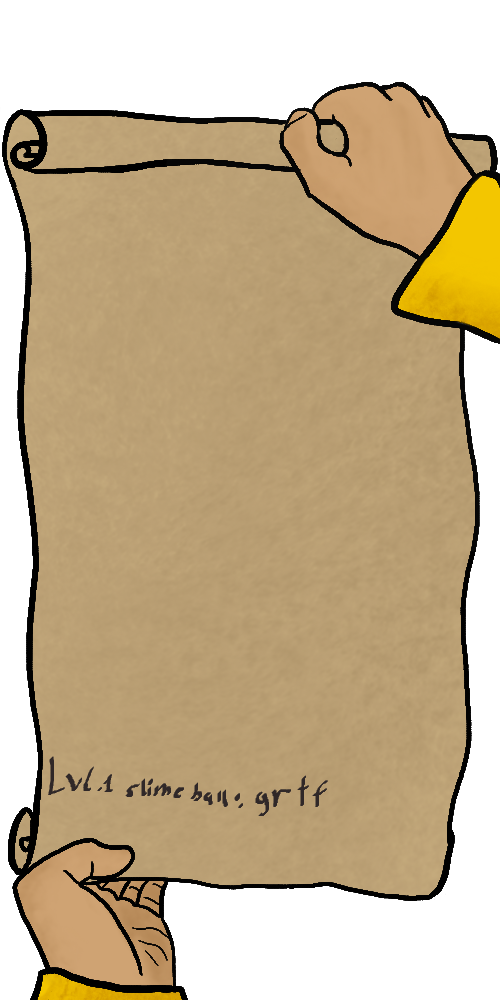
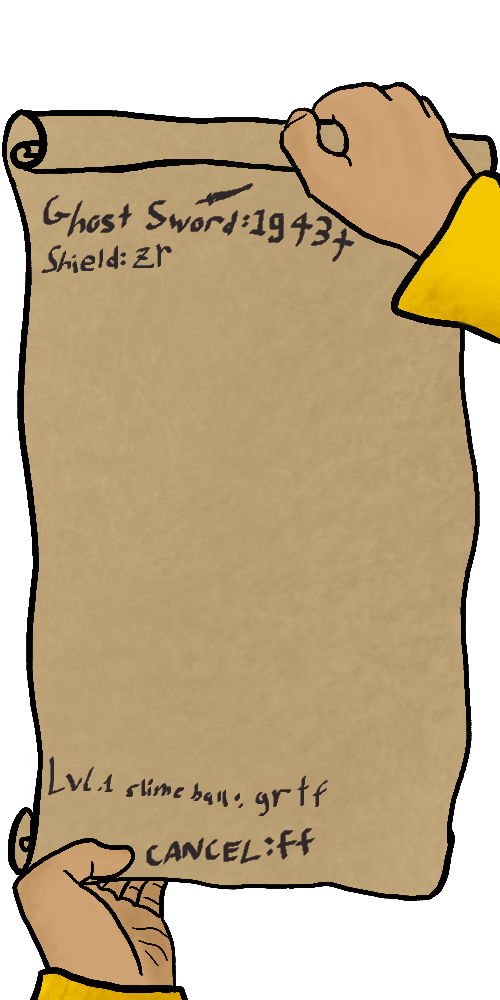
7/26/25 - Daily Update 3
Started working on the final boss. I drew two images for it and it's title, and worked it into my GUI and basic game loop. It now appears on game start rather than the Hideous Beast. I added an awakening feature, where it appears dormant at first, but awakens when the player deals damage to it. this also causes it's boss bar to appear on screen. I also made it rise from the ground, and follow the player.

I also reworked the hitbox collision effect system to allow collisions with more than just The Hideous Creature, as before that was the only enemy that the hitbox collision effect system could handle.

Tomorrow I intend to make the boss be able to actually shoot projectiles at the player, as right now the only way it can damage the player is if the player runs into it, which isn't a very enjoyable boss fight :/

I also updated the angled rectangle and circle collision to also check the distances between any of the verticies of the angled rectangle and the center of the circle

I also changed the combo for ghost Sword, and updated the spell scroll sheet to include both the ghost sword and the cancel combo

Changed region(s): [[0.09, 0.186, 0.72, 0.279], [0.27, 0.806, 0.63, 0.868]]

diff --git a/MildyInterestingWizardGamePrototypeMk7.py b/MildyInterestingWizardGamePrototypeMk7.py
@@ -7,7 +7,8 @@
 # START WORKING ON FINAL BOSS
 # ADD HEALTH REGAIN AND MANA REGAIN ITEMS
 # VIDEO IS VERY IMPORTANT!!! WORK ON VIDEO!!!! WRITE DOWN KEY FEATURES OF CODE I WANT TO POINT OUT IN VIDEO
-# CONTINUE WORKING ON COLLISION SYSTEM (still need angled rectangles)
+# make map bounds?? (maybe)
+# ADD PLAYER HURT - show that player has been hurt somehow, play sound probably
 # name wizard - Wizard Bossfight, firstname Wizard, lastname Bossfight
 
 # QUESTIONS FOR PROF TAYLOR:
@@ -299,6 +300,73 @@ class InsidiousCreature(Enemy):
         super().__init__(name,frames,imageWidth,imageHeight,imageScale,alignment,drawBuffer,displayAngle,initialX,initialY,maxHealth,playerDamageOnHit)
         self.behaviors = ['stationary','chase']
         self.behavioralMode = 'stationary'
+        self.radius = 0
+        self.phase = 0
+        self.subphase = 0
+        self.subphaseCounter = 0
+        self.playerHoverDistance = 500
+        self.intendedYPosition = 0
+    
+    def move(self,app):
+        if(self.subphase == 'rise'):
+            if(self.yPosition > (app.ti['ground'].initialTileYPosition - 150)):
+                app.icPhysics['y'].currentThrust += 5
+            elif(app.icPhysics['y'].currentThrust > 0):
+                app.icPhysics['y'].currentThrust = app.icPhysics['y'].currentThrust * 0.9
+                if(app.icPhysics['y'].currentThrust < 1):
+                    app.icPhysics['y'].currentThrust = 0
+            else:
+                self.subphase = 'chase'
+        elif(self.subphase == 'chase'):
+            dx = (self.xPosition + self.xOffset) - app.playerObject.xPosition
+            if(dx < -self.playerHoverDistance):
+                app.icPhysics['x'].currentThrust = -500
+            elif(dx > self.playerHoverDistance):
+                app.icPhysics['x'].currentThrust = 500
+            else:
+                app.icPhysics['x'].currentThrust = 0
+
+            self.intendedYPosition = app.playerObject.yPosition - self.yOffset - 150
+            dy = self.yPosition - self.intendedYPosition
+            hoverMargin = 100
+            if(dy > hoverMargin):
+                app.icPhysics['y'].currentThrust = dy 
+            elif(dy < -hoverMargin):
+                app.icPhysics['y'].currentThrust = dy * 2
+            else:
+                app.icPhysics['y'].currentThrust = 0
+
+        runPhysicsCalculations(app.icPhysics['x'])   
+        runPhysicsCalculations(app.icPhysics['y'])
+        # ptc("app.icPhysics['y'].currentVelocity",app.icPhysics['y'].currentVelocity)
+        self.xPosition -= app.icPhysics['x'].currentVelocity
+        self.yPosition -= app.icPhysics['y'].currentVelocity
+
+    def fireTooth(self,app):
+        # cobble this together into the boss being able to fire projectiles pleaseee
+        # if(app.spells[spellName].projectileType == 'linear'):
+        #     app.projectile[spellName] = Linear(spellName,frames,width,height,scale,drawBuffer,0,initialX,initialY,targetX,targetY,True)
+        # hitboxRotationAngle = app.shieldData[app.mouseScreenSector][2]
+        # width = int(app.spells[spellName].displayWidth * 0.2)
+        # height = int(app.spells[spellName].displayHeight * 0.9)
+        # [(x_1,y_1),(x_2,y_2),(x_3,y_3),(x_4,y_4)] = applyRectangleRotation(app.spells[spellName].xPosition, app.spells[spellName].yPosition, width, height, hitboxRotationAngle)
+        # app.hitbox[spellName] = HitboxAngledRect(x_1,y_1,x_2,y_2,x_3,y_3,x_4,y_4)
+        pass
+
+    def updateImage(self,app):
+        if(self.phase == 0):
+            self.imagePath = 'images/insidiousCreature/eyesClosed.png'
+        elif(self.phase == 1):
+            self.imagePath = 'images/insidiousCreature/eyesOpen.png'
+
+    def updateState(self,app):
+        if((self.health != self.maxHealth) and (app.currentBoss == None)):
+            app.currentBoss = 'insidiousCreature'
+            app.screenShakeMagnitude += 3
+            self.phase = 1
+            self.subphase = 'rise'
+            self.health = self.maxHealth
+            
 
 class TheHideousBeast(Enemy):
     def __init__(self,name,frames,imageWidth,imageHeight,imageScale,alignment,drawBuffer,displayAngle,initialX,initialY,maxHealth,playerDamageOnHit):
@@ -714,7 +782,7 @@ def updatePositioning(app):
     for enemyName in app.enemies:
         enemy = app.enemies[enemyName]
         enemy.xOffset -= (app.player['x'].currentVelocity)
-        enemy.yOffset = app.ti['ground'].yOffset
+        enemy.yOffset = int(app.ti['ground'].yOffset)
 
 def runPhysicsCalculations(subject):
     subject.currentAcceleration = (((subject.currentThrust)+(subject.gravity)+((subject.frictionConstant)*(subject.previousVelocity)))/((subject.mass)-(subject.frictionConstant)))
@@ -1775,16 +1843,71 @@ def initiateProjectile(app,projectileName):
         reportError('getting projectie data','UNRECOGNIZED PROJECTILE','getProjectileData','recieved unexpected projectile name',projectileName,None)
 
 # ENEMIES
+def initiateTheHideousBeast(app,Physics):
+    initialX = 100
+    initialY = app.ti['ground'].initialTileYPosition-80
+    app.enemies['theHideousBeast'] = TheHideousBeast('theHideousBeast',0,500,500,0.7,'center',100,0,initialX,initialY,500,10)
+
+    # initiating hitbox for the hideous beast
+    THBhitboxXAdjustmentConstant = app.enemies['theHideousBeast'].displayWidth//7
+    THBhitboxYAdjustmentConstant = app.enemies['theHideousBeast'].displayHeight//3
+    initiateHitbox(app,'theHideousBeast',app.enemies['theHideousBeast'],'enemy',THBhitboxXAdjustmentConstant,THBhitboxYAdjustmentConstant,'hitboxRect')
+
+    # creating physics dictionary for the hideous beast
+    app.THBPhysics = dict()
+
+    # intiating the hideous beast's physics axes
+    app.THBPhysics['x'] = Physics()
+    app.THBPhysics['y'] = Physics()
+
+    # tuning the hideous beast's physics parameters
+    app.THBPhysics['x'].mass = 150
+    app.THBPhysics['y'].mass = 150
+    app.THBPhysics['x'].setThrust = 700
+    app.THBPhysics['x'].setFrictionConstant = -20
+    app.THBPhysics['x'].frictionConstant = -20
+    app.THBPhysics['y'].setThrust = 700
+    app.THBPhysics['y'].setFrictionConstant = -20
+    app.THBPhysics['y'].frictionConstant = -20
+    app.setGravity = -150
+
+def initiateInsidiousCreature(app,Physics):
+    initialX = app.screenWidth * 1.5
+    initialY = app.ti['ground'].initialTileYPosition-80
+    app.enemies['insidiousCreature'] = InsidiousCreature('insidiousCreature',0,500,500,0.6,'center',100,0,initialX,initialY,500,5)
+
+    # establishing the hitbox radius for the Insidious Creature
+    app.enemies['insidiousCreature'].radius = int(app.enemies['insidiousCreature'].displayWidth * 0.4)
+
+    # initiating hitbox for the insidious creature)
+    initiateHitbox(app,'insidiousCreature',app.enemies['insidiousCreature'],'enemy',0,0,'hitboxCircle')
+
+    # insidious creature will be shortened to ic for clarity
+
+    # creating physics dictionary for the insidious creature
+    app.icPhysics = dict()
+
+    # intiating the insidious creature's physics axes
+    app.icPhysics['x'] = Physics()
+    app.icPhysics['y'] = Physics()
+
+    # tuning the insidious creature's physics parameters
+    app.icPhysics['x'].mass = 30
+    app.icPhysics['y'].mass = 30
+    app.icPhysics['x'].setThrust = 750
+    app.icPhysics['x'].setFrictionConstant = -20
+    app.icPhysics['x'].frictionConstant = -20
+    app.icPhysics['y'].setThrust = 750
+    app.icPhysics['y'].setFrictionConstant = -15
+    app.icPhysics['y'].frictionConstant = -15
+
 def updateEnemies(app):
     enemiesToDelete = set()
     for enemyName in app.enemies:
-        if(enemyName == 'theHideousBeast'):
-            app.currentBoss = 'theHideousBeast'
         enemy = app.enemies[enemyName]
         enemy.move(app)
         enemy.updateImage(app)
         enemy.updateState(app)
-
         if(enemy.deleteMe):
             if(enemyName == app.currentBoss):
                 app.currentBoss = None
@@ -2051,20 +2174,24 @@ def triggerCollisionEffect(app,hitbox_1,hitbox_2):
             # adverse effects
             return
         elif(otherHitbox.belongsTo == 'enemy'):
-            if(('theHideousBeast' in app.enemies) and (otherHitbox.associatedObject == app.enemies['theHideousBeast'])):
+            if(isinstance(otherHitbox.associatedObject, TheHideousBeast) or isinstance(otherHitbox.associatedObject, InsidiousCreature)):
                 if(app.playerImmunityFrames == 0):
-                    app.playerHealth -= app.enemies['theHideousBeast'].playerDamageOnHit
+                    app.playerHealth -= otherHitbox.associatedObject.playerDamageOnHit
                     app.playerImmunityFrames = 10
-    elif(('theHideousBeast' in app.enemies) and ((hitbox_1.associatedObject == app.enemies['theHideousBeast']) or (hitbox_2.associatedObject == app.enemies['theHideousBeast']))):
-        if(hitbox_1.associatedObject == app.enemies['theHideousBeast']):
-            THBhitbox = hitbox_1    
+
+    elif(isinstance(hitbox_1.associatedObject, Enemy) or isinstance(hitbox_2.associatedObject, Enemy)):
+        if(isinstance(hitbox_1.associatedObject, Enemy) and not isinstance(hitbox_2.associatedObject, Enemy)):
+            enemyHitbox = hitbox_1    
             otherHitbox = hitbox_2
-        else:
-            THBhitbox = hitbox_2
+        elif(isinstance(hitbox_2.associatedObject, Enemy) and not isinstance(hitbox_1.associatedObject, Enemy)):
+            enemyHitbox = hitbox_2
             otherHitbox = hitbox_1
-        if(('levelOneSlimeBall' in app.projectile ) and (otherHitbox.associatedObject == app.projectile['levelOneSlimeBall'])):
-            app.enemies['theHideousBeast'].health = max(app.enemies['theHideousBeast'].health - app.projectile['levelOneSlimeBall'].damage, 0)
-            app.projectile['levelOneSlimeBall'].deleteMe = True
+        else:
+            return
+        if(isinstance(otherHitbox.associatedObject, Projectile)):
+            print('contact!:',otherHitbox.associatedObject.name)
+            enemyHitbox.associatedObject.health = max(enemyHitbox.associatedObject.health - otherHitbox.associatedObject.damage, 0)
+            otherHitbox.associatedObject.deleteMe = True
 
 def checkCollisionType(hitbox_1, hitbox_2):
     result = set()
@@ -2091,8 +2218,13 @@ def runCollisionCalculations(app, hitboxName_1, hitboxName_2):
     # check what kind of collision we have to run the calculations for
     collisionType = checkCollisionType(hitbox_1, hitbox_2)
     if(collisionType == {'hitboxCircle'}):
-        if(getDistance(hitbox_1.xPosition, hitbox_1.yPosition, hitbox_2.xPosition, hitbox_2.yPosition) <= (hitbox_1.radius + hitbox_2.radius)):
+        x_1 = hitbox_1.xPosition + hitbox_1.xOffset
+        y_1 = hitbox_1.yPosition + hitbox_1.yOffset
+        x_2 = hitbox_2.xPosition + hitbox_2.xOffset
+        y_2 = hitbox_2.yPosition + hitbox_2.yOffset
+        if(getDistance(x_1,y_1,x_2,y_2) <= (hitbox_1.radius + hitbox_2.radius)):
             triggerCollisionEffect(app, hitbox_1, hitbox_2)
+    
     elif(collisionType == {'hitboxRect'}):
         left_1 = hitbox_1.left + hitbox_1.xOffset
         right_1 = hitbox_1.right + hitbox_1.xOffset
@@ -2119,6 +2251,7 @@ def runCollisionCalculations(app, hitboxName_1, hitboxName_2):
             triggerCollisionEffect(app, hitbox_1, hitbox_2)
             # print('both rectangles')
             pass
+    
     elif(collisionType == {'hitboxAngledRect'}):
         hVertList_1 = []
         for i in hitbox_1.getVertList():
@@ -2127,8 +2260,9 @@ def runCollisionCalculations(app, hitboxName_1, hitboxName_2):
         for i in hitbox_2.getVertList():
             hVertList_2.append([(i[0] + hitbox_2.xOffset),(i[1] + hitbox_2.yOffset)])
         if(checkConvexPolygonIntersection(hVertList_1,hVertList_2) or checkConvexPolygonIntersection(hVertList_2,hVertList_1)):
-            print('contact')
+            triggerCollisionEffect(app, hitbox_1, hitbox_2)
             pass        
+    
     elif(collisionType == {'hitboxCircle', 'hitboxRect'}):
         if(isinstance(hitbox_1,HitboxCircle)):
             hitboxCircle = hitbox_1
@@ -2145,6 +2279,7 @@ def runCollisionCalculations(app, hitboxName_1, hitboxName_2):
         if((left <= x <= right) and (top <= y <= bottom)):
             triggerCollisionEffect(app, hitbox_1, hitbox_2)
             # print('one circle, one rectangle')
+    
     elif(collisionType == {'hitboxCircle', 'hitboxAngledRect'}):
         if(isinstance(hitbox_1,HitboxCircle)):
             hitboxCircle = hitbox_1
@@ -2156,8 +2291,13 @@ def runCollisionCalculations(app, hitboxName_1, hitboxName_2):
         for i in hitboxAngledRect.getVertList():
             hARVertList.append([(i[0] + hitboxAngledRect.xOffset),(i[1] + hitboxAngledRect.yOffset)])
         circleVert = [[(hitboxCircle.xPosition + hitboxCircle.xOffset),(hitboxCircle.yPosition + hitboxCircle.yOffset)]] 
-        if(checkConvexPolygonIntersection(circleVert,hARVertList)):
-            print('contact')
+        distanceCheck = False
+        for [hARx,hARy] in hARVertList:
+            if(getDistance(hARx,hARy,circleVert[0][0],circleVert[0][1]) <= hitboxCircle.associatedObject.radius):
+                distanceCheck = True
+        if(checkConvexPolygonIntersection(circleVert,hARVertList) or distanceCheck):
+            triggerCollisionEffect(app, hitbox_1, hitbox_2)
+    
     elif(collisionType == {'hitboxRect', 'hitboxAngledRect'}):
         if(isinstance(hitbox_1,HitboxRect)):
             hitboxRect = hitbox_1
@@ -2178,8 +2318,8 @@ def runCollisionCalculations(app, hitboxName_1, hitboxName_2):
         # print(hRVertList)
    
         if(checkConvexPolygonIntersection(hARVertList,hRVertList) or checkConvexPolygonIntersection(hRVertList,hARVertList)):
-            print('contact')
-            pass
+            triggerCollisionEffect(app, hitbox_1, hitbox_2)
+    
     else:
         reportError('attempting to run collision calculations','UNRECOGNIZED COLLISION TYPE','runCollisionCalculations','recieved collision type',collisionType,None)
 
@@ -2907,7 +3047,7 @@ def gameSetup(app):
     app.spells['levelOneSlimeBall'] = Spell('aggressive','grtf','levelOneSlimeBall','mapProjectile',1,250,250,0.1,10,10)
     app.spells['levelOneSlimeBall'].projectileType = 'groundbounce'
     app.spells['shield'] = Spell('defensive','zr','shield','shield',1,250,250,0.25,5,0)
-    app.spells['ghostSword'] = Spell('aggressive','1','ghostSword','mapProjectile',1,250,250,0.5,0,10) # final combo will be 1g43t
+    app.spells['ghostSword'] = Spell('aggressive','1g43t','ghostSword','mapProjectile',1,250,250,0.5,0,10)
     app.spells['ghostSword'].projectileType = 'linear'
     # establishing signifier that tells which side of the screen the mouse is on
     app.mouseOrbSide = 'right'
@@ -3017,6 +3157,7 @@ def gameSetup(app):
     app.gui['bossBar'] = GuiElement('images/GUI/bossBar.png',(app.screenWidth//2),int(app.screenHeight*0.875),500,500,0.75,100,'center')
     app.gui['bossBarBackground'] = GuiElement('images/GUI/bossBarBackground.png',(app.screenWidth//2),int(app.screenHeight*0.875),500,500,0.75,100,'center')
     app.gui['theHideousBeastTitle'] = GuiElement('images/GUI/theHideousBeastTitle.png',(app.screenWidth//2),int(app.screenHeight*0.875),500,500,0.75,100,'center')
+    app.gui['insidiousCreatureTitle'] = GuiElement('images/GUI/insidiousCreatureTitle.png',(app.screenWidth//2),int(app.screenHeight*0.875),500,500,0.75,100,'center')
     app.spellScrollBottomYPosition = (app.screenHeight-5)
     app.spellScrollTopYPosition = int(app.screenHeight*0.0625) 
     app.gui['spellScroll'] = GuiElement('images/GUI/spellScroll.png',app.screenWidth,app.spellScrollBottomYPosition,500,1000,0.75,100,'top-right')
@@ -3121,32 +3262,10 @@ def gameSetup(app):
     app.enemies = dict()
     
     # initializing test boss, The Hideous Beast
-    initialX = 100
-    initialY = app.ti['ground'].initialTileYPosition-80
-    app.enemies['theHideousBeast'] = TheHideousBeast('theHideousBeast',0,500,500,0.7,'center',100,0,initialX,initialY,500,10)
+    # initiateTheHideousBeast(app,Physics)
 
-    # initiating hitbox for the hideous beast
-    THBhitboxXAdjustmentConstant = app.enemies['theHideousBeast'].displayWidth//7
-    THBhitboxYAdjustmentConstant = app.enemies['theHideousBeast'].displayHeight//3
-    initiateHitbox(app,'theHideousBeast',app.enemies['theHideousBeast'],'enemy',THBhitboxXAdjustmentConstant,THBhitboxYAdjustmentConstant,'hitboxRect')
-
-    # creating physics dictionary for the hideous beast
-    app.THBPhysics = dict()
-
-    # intiating the hideous beast's physics axes
-    app.THBPhysics['x'] = Physics()
-    app.THBPhysics['y'] = Physics()
-
-    # tuning the hideous beast's physics parameters
-    app.THBPhysics['x'].mass = 150
-    app.THBPhysics['y'].mass = 150
-    app.THBPhysics['x'].setThrust = 700
-    app.THBPhysics['x'].setFrictionConstant = -20
-    app.THBPhysics['x'].frictionConstant = -20
-    app.THBPhysics['y'].setThrust = 700
-    app.THBPhysics['y'].setFrictionConstant = -20
-    app.THBPhysics['y'].frictionConstant = -20
-    app.setGravity = -150
+    # initializing the final boss, Insidious Creature
+    initiateInsidiousCreature(app,Physics)
 
     # ---- GAME STATE SETUP ----
     # initializing game state
